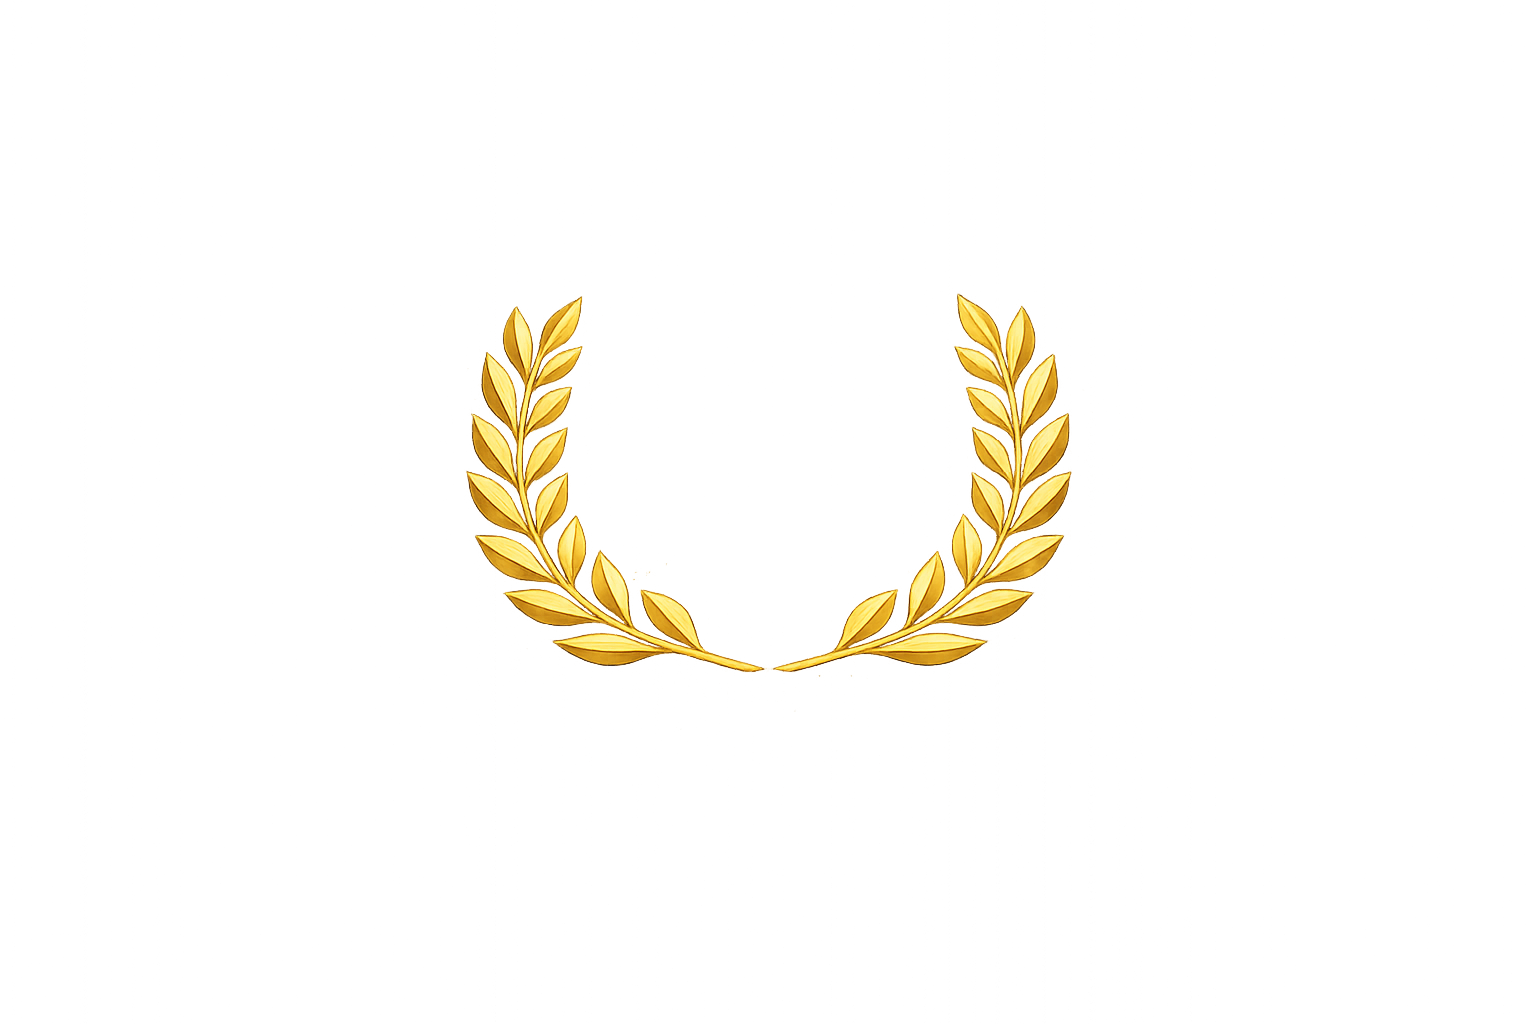
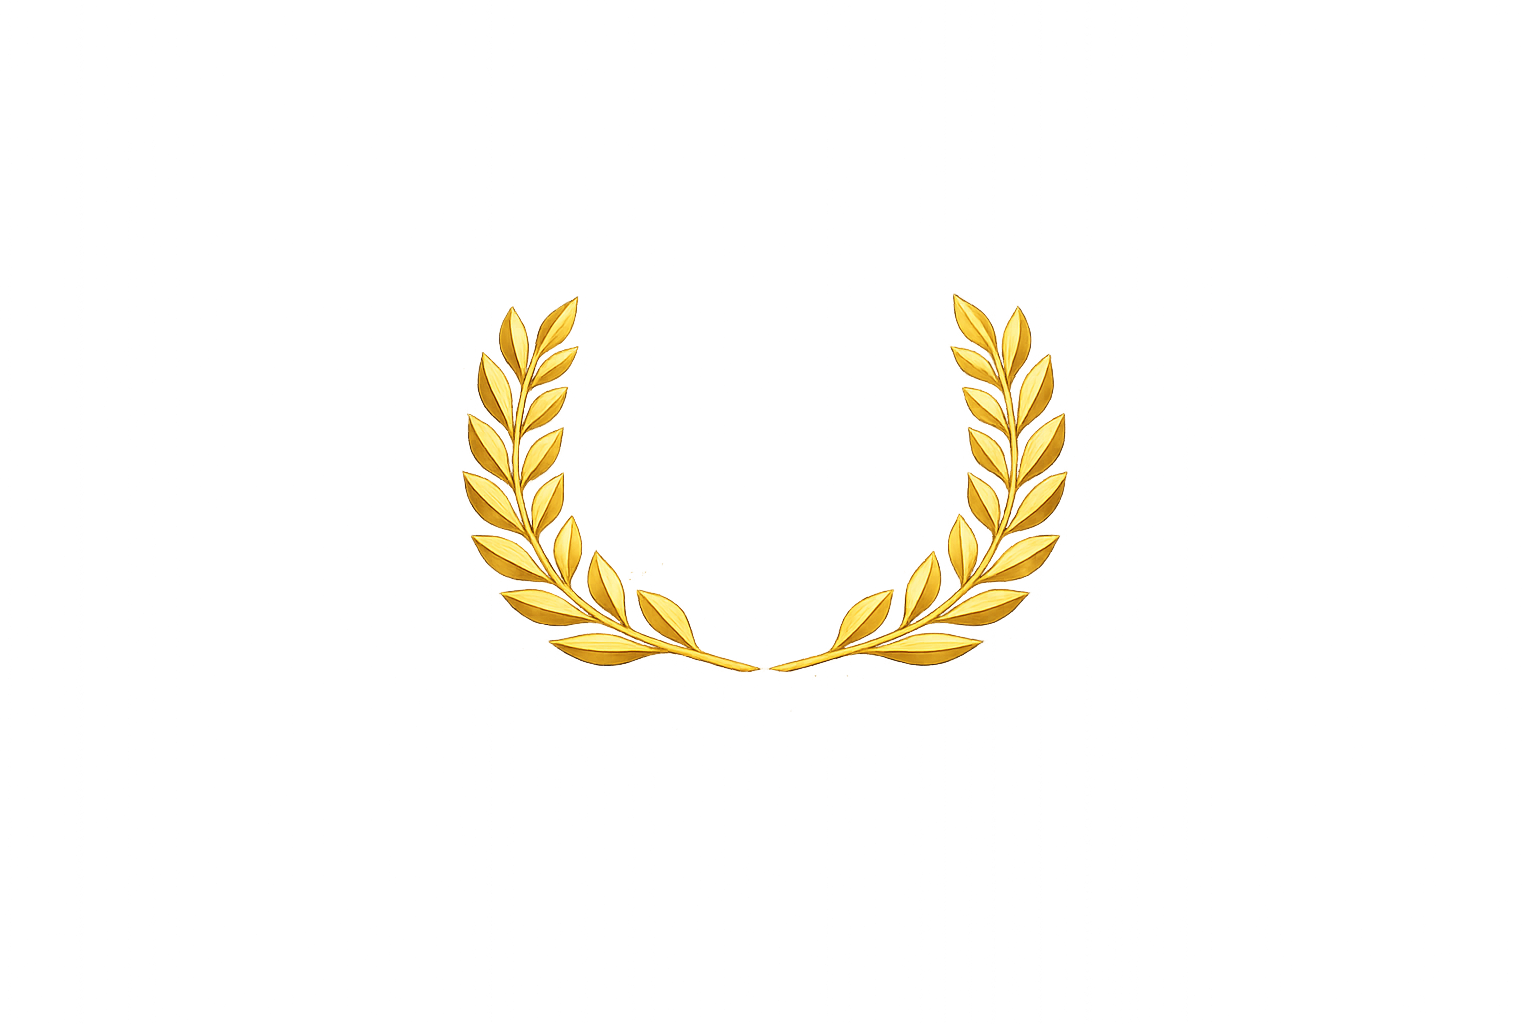
fix: trim PEM footer and laurel assets

Changed region(s): [[0.3392, 0.2812, 0.7093, 0.6562]]

diff --git a/lib/pdf/editorial-cover.ts b/lib/pdf/editorial-cover.ts
@@ -128,7 +128,7 @@ export function drawEditorialCover(params: DrawCoverParams) {
   page.drawLine({ start: { x: 385, y: 252 }, end: { x: 385, y: 95 }, thickness: 0.7, color: gold });
 
   if (assets?.laurel) {
-    drawAssetContain(page, assets.laurel, { x: 388, y: 112, width: 175, height: 118 });
+    drawAssetContain(page, assets.laurel, { x: 388, y: 105, width: 185, height: 135 });
   }
 
   page.drawText("LUXURY SCORE", { x: 432, y: 247, size: 9.5, font: bold, color: gold });
@@ -177,7 +177,7 @@ export function drawEditorialCover(params: DrawCoverParams) {
   page.drawLine({ start: { x: 380, y: 32 }, end: { x: width - 34, y: 32 }, thickness: 0.55, color: line });
 
   if (assets?.footer) {
-    drawAssetContain(page, assets.footer, { x: width / 2 - 115, y: 18, width: 230, height: 42 });
+    drawAssetContain(page, assets.footer, { x: width / 2 - 155, y: 18, width: 310, height: 44 });
   } else {
     page.drawText("PRIVATE ESTATES MEXICO", {
       x: width / 2 - regular.widthOfTextAtSize("PRIVATE ESTATES MEXICO", 7) / 2,